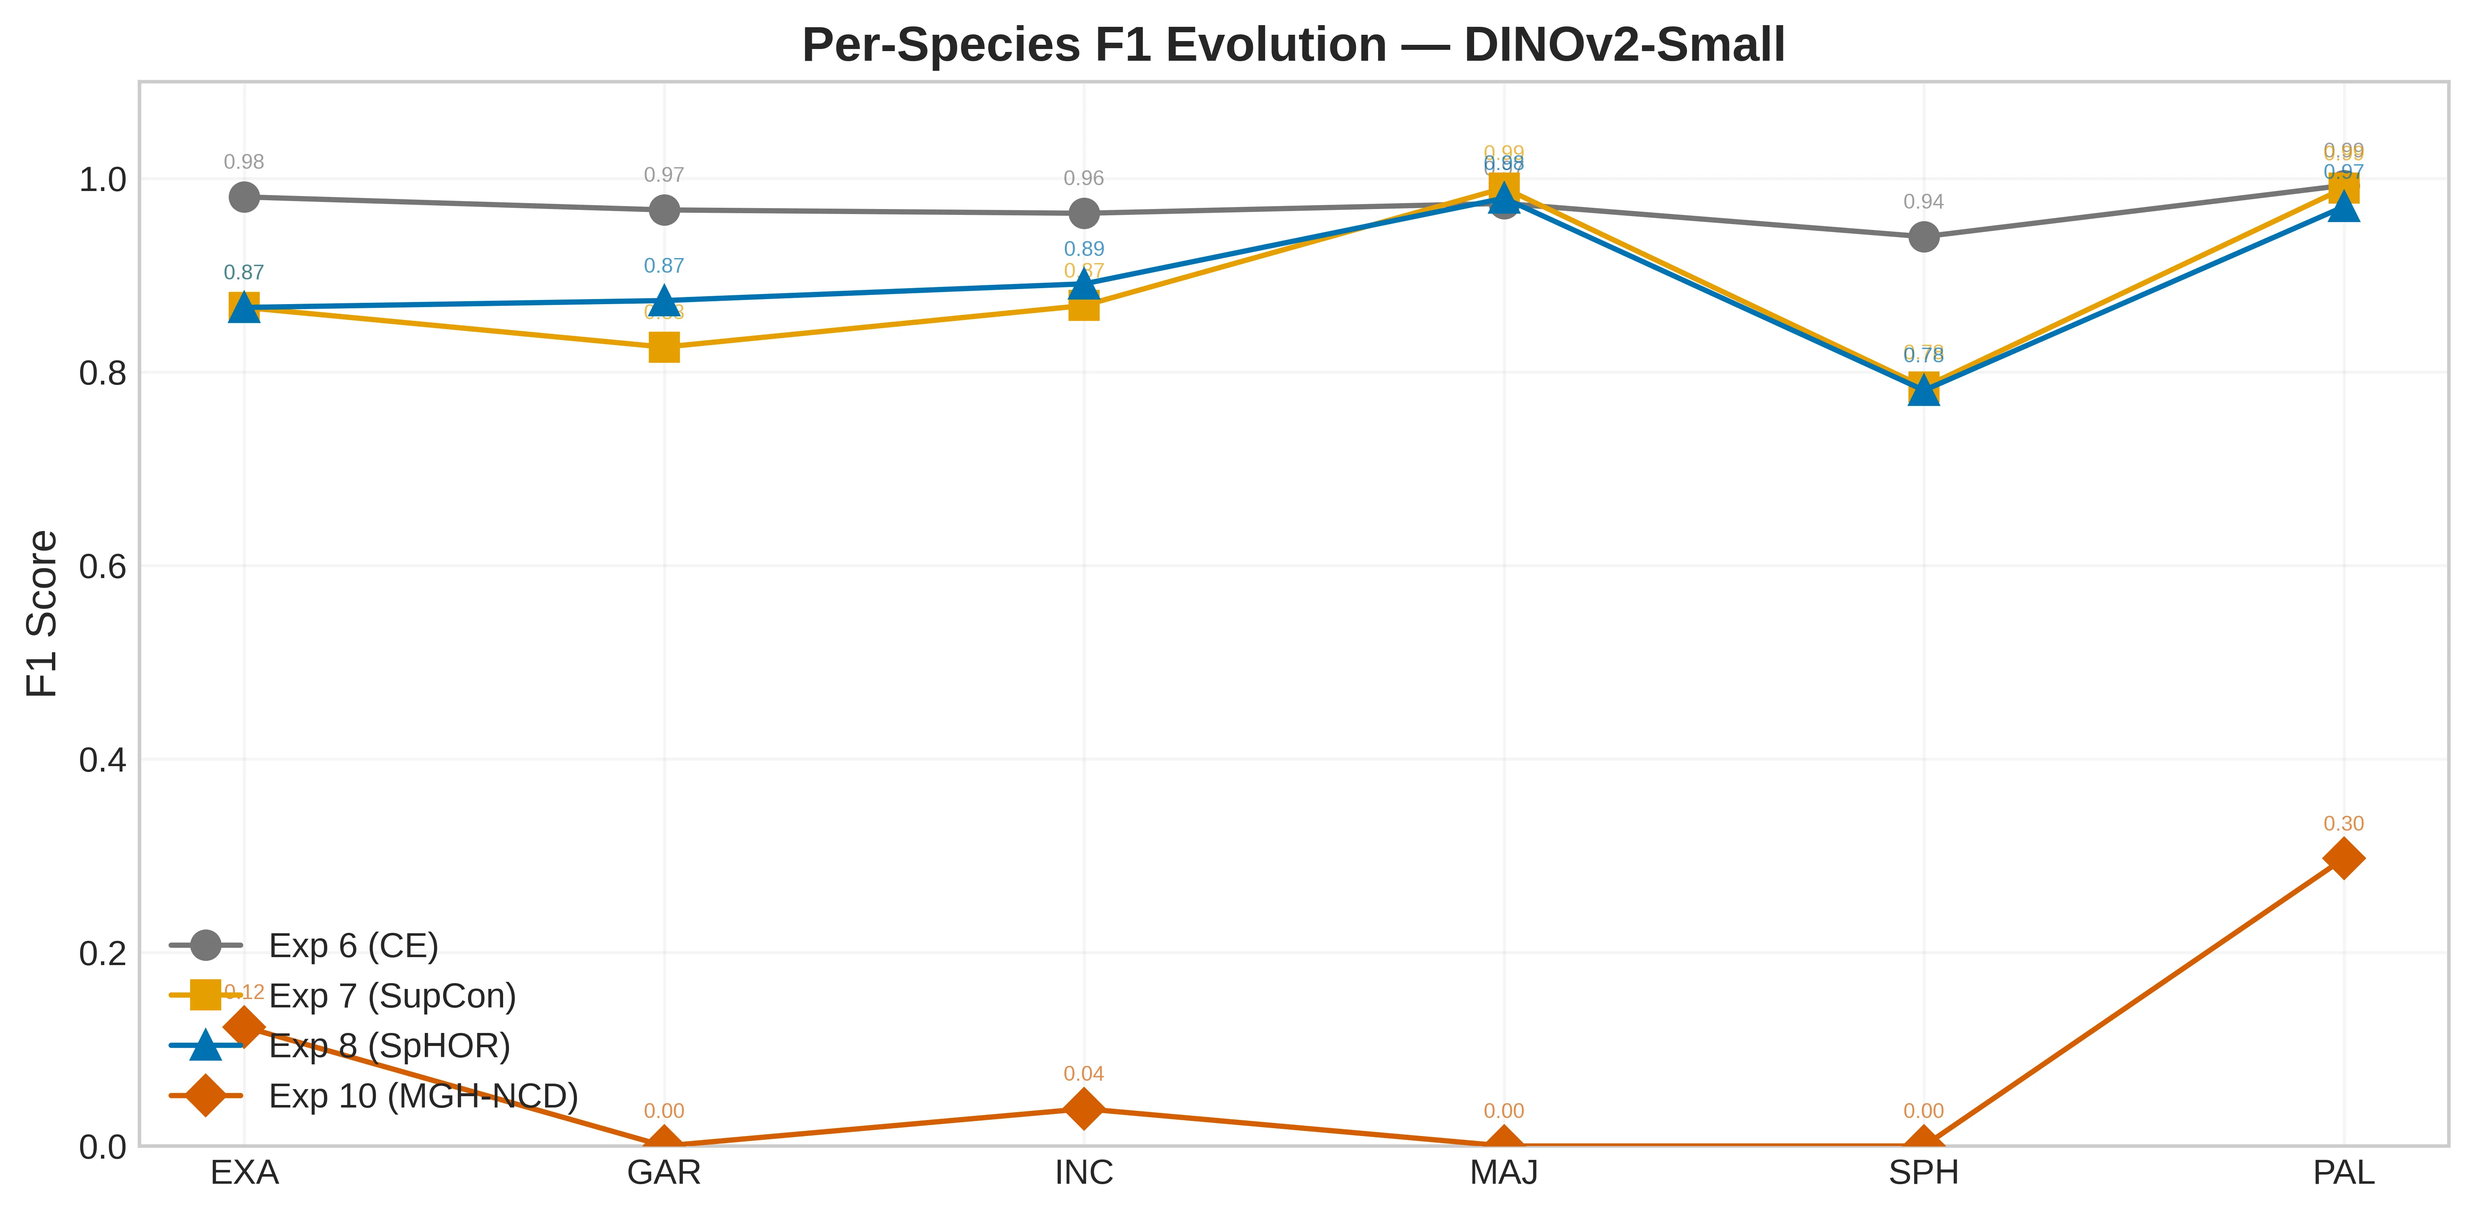
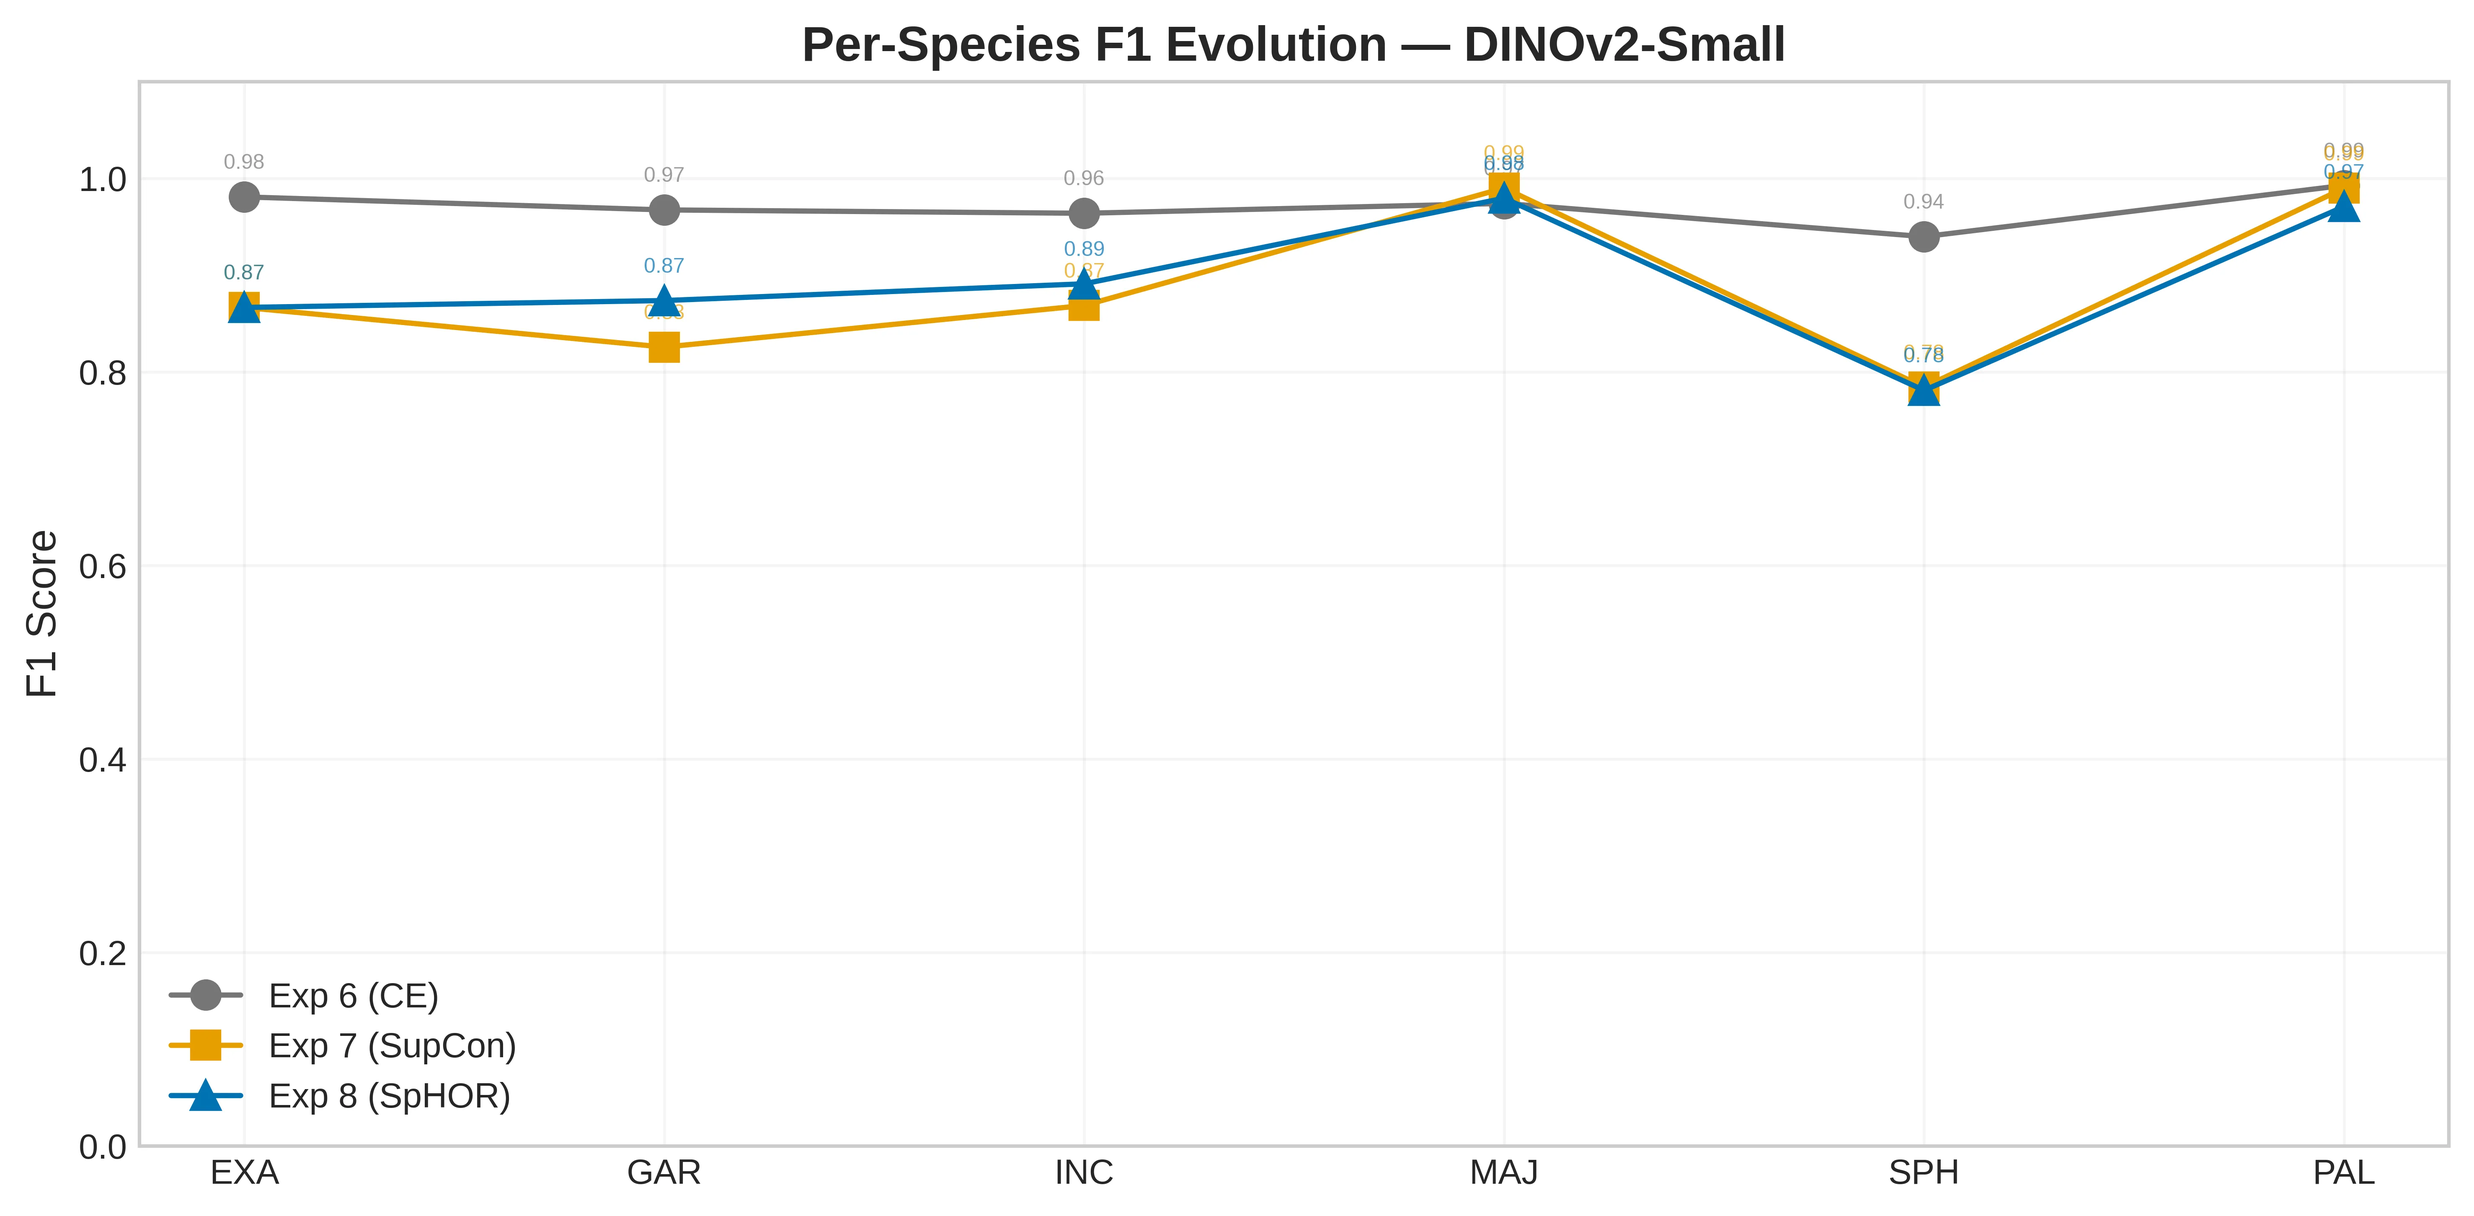
fix: rimuove funzioni morti exp10 dallo script figure, ripristina benchmark_bar
- rimosse fig_osr_detection_comparison, fig_exp10_per_species,
  fig_clustering_comparison, fig_spotlight_exp10_collapse (non chiamate
  dal main, dead code con riferimenti exp10)
- ripristinate fig_benchmark_bar, fig_exp8_per_species e
  fig_tsne_exp8_multimodel (rimosse per errore durante la pulizia)
- verifica: tutte le funzioni referenziate dal main sono definite,
  script genera 15 figure senza errori
- spotlight_species_evolution.webp rigenerata dalla png aggiornata

diff --git a/backend/scripts/generate_thesis_figures.py b/backend/scripts/generate_thesis_figures.py
@@ -253,8 +253,29 @@ def fig_benchmark_heatmap():
 
 
 # ══════════════════════════════════════════════════════════════════════
-#  FIGURE 2: Confusion Matrices (Exp 7, 8, 10 — exp6 has no test CM)
+#  FIGURE 2: Confusion Matrices (Exp 7, 8 — exp6 has no test CM)
 # ══════════════════════════════════════════════════════════════════════
+
+
+def fig_benchmark_bar():
+    """Grouped bar chart: all models × all experiments."""
+    fig, ax = plt.subplots(figsize=(12, 5))
+    width = 0.8 / len(MODELS)
+    x = np.arange(len(EXPS_ALL))
+
+    for i, model in enumerate(MODELS):
+        vals = [get_test_f1(load_results(exp, model)) for exp in EXPS_ALL]
+        off = (i - len(MODELS) / 2 + 0.5) * width
+        ax.bar(x + off, vals, width, label=short_model(model), color=MODEL_COLORS.get(model, CB[i]))
+
+    ax.set_xticks(x)
+    ax.set_xticklabels([EXP_LABELS[e] for e in EXPS_ALL])
+    ax.set_ylabel("Test F1 Score")
+    ax.set_title("Benchmark: All Models × All Experiments", fontweight="bold")
+    ax.legend(loc="upper left", bbox_to_anchor=(1.01, 1), framealpha=0.9, fontsize=10)
+    ax.set_ylim(0, 1.05)
+    fig.tight_layout()
+    _save(fig, "benchmark_bar.png")
 
 
 def fig_confusion_matrices():
@@ -601,51 +622,8 @@ def fig_exp9_osr_auroc():
 
 
 # ══════════════════════════════════════════════════════════════════════
-#  FIGURE 9: OSR Detection Rate — Exp 8 vs Exp 10 side-by-side
+#  EXP 8 per-species + t-SNE
 # ══════════════════════════════════════════════════════════════════════
-
-
-def fig_osr_detection_comparison():
-    """Detection rate: Exp 9 (novel garganica) vs Exp 10, all detectors, all models."""
-    detectors = ["Mahalanobis", "KNN", "Energy", "Ensemble"]
-    fig, axes = plt.subplots(1, 2, figsize=(14, 4.5))
-    x = np.arange(len(MODELS))
-    width = 0.8 / len(detectors)
-
-    for idx, exp in enumerate(["exp9", "exp10"]):
-        ax = axes[idx]
-        for j, det in enumerate(detectors):
-            vals = []
-            for model in MODELS:
-                p = EXPERIMENTS / f"{EXP_PREFIXES[exp]}_{model}" / "ncd_results.json"
-                v = 0
-                if p.exists():
-                    with open(p) as f:
-                        d = json.load(f)
-                    dets = d.get("detectors", {})
-                    dd = dets.get(det, {})
-                    v = dd.get("detection_rate_at_10pct_fpr", 0) if isinstance(dd, dict) else 0
-                vals.append(v)
-            off = (j - len(detectors) / 2 + 0.5) * width
-            ax.bar(x + off, vals, width, label=det, color=plt.cm.Set2(j / len(detectors)))
-        ax.set_xticks(x)
-        ax.set_xticklabels([short_model(m) for m in MODELS], rotation=30, ha="right")
-        ax.set_ylabel("Detection Rate @ 10% FPR")
-        ax.set_title(EXP_LABELS[exp], fontweight="bold")
-        ax.axhline(y=0.5, color="gray", linestyle="--", alpha=0.5)
-        ax.set_ylim(0, 1.05)
-        ax.legend(loc="upper left", bbox_to_anchor=(1.01, 1), framealpha=0.9, fontsize=8)
-        ax.text(-0.15, -0.1, f"({chr(97 + idx)})", transform=ax.transAxes, fontsize=11, fontweight="bold")
-
-    fig.suptitle("Known-Class Recognition Rate: Exp 9 (novel garganica) vs Exp 10", fontweight="bold", y=1.05)
-    fig.tight_layout()
-    _save(fig, "osr_detection_comparison.png")
-
-
-# ══════════════════════════════════════════════════════════════════════
-#  FIGURE 10: Exp 8 per-species F1 — all models
-# ══════════════════════════════════════════════════════════════════════
-
 
 def fig_exp8_per_species():
     """Per-species F1, all models, Exp 8."""
@@ -682,51 +660,6 @@ def fig_exp8_per_species():
     _save(fig, "exp8_per_species.png")
 
 
-# ══════════════════════════════════════════════════════════════════════
-#  FIGURE 11: Exp 10 per-species F1 — all models
-# ══════════════════════════════════════════════════════════════════════
-
-
-def fig_exp10_per_species():
-    """Per-species F1, all models, Exp 10."""
-    order = ["O. exaltata", "O. garganica", "O. incubacea", "O. majellensis", "O. sphegodes", "O. sphegodes_Palena"]
-    short = [short_species(s) for s in order]
-    fig, ax = plt.subplots(figsize=(10, 5))
-    width = 0.8 / len(MODELS)
-    x = np.arange(len(order))
-
-    for i, model in enumerate(MODELS):
-        res = load_results("exp10", model)
-        f1pc = res["test_metrics"].get("f1_per_class", {}) if res and "test_metrics" in res else {}
-        vals = [f1pc.get(s, 0) for s in order]
-        off = (i - len(MODELS) / 2 + 0.5) * width
-        bars = ax.bar(x + off, vals, width, label=short_model(model), color=MODEL_COLORS.get(model, CB[i]))
-        for bar, v in zip(bars, vals):
-            ax.text(
-                bar.get_x() + bar.get_width() / 2,
-                bar.get_height() + 0.01,
-                f"{v:.2f}",
-                ha="center",
-                va="bottom",
-                fontsize=6,
-                rotation=90,
-            )
-
-    ax.set_xticks(x)
-    ax.set_xticklabels(short)
-    ax.set_ylabel("F1 Score")
-    ax.set_title("Exp 10 (MGH-NCD): Per-Species F1 by Architecture", fontweight="bold")
-    ax.legend(loc="upper left", bbox_to_anchor=(1.01, 1), framealpha=0.9, fontsize=8)
-    ax.set_ylim(0, 1.1)
-    fig.tight_layout()
-    _save(fig, "exp10_per_species.png")
-
-
-# ══════════════════════════════════════════════════════════════════════
-#  FIGURE 12: Exp 8 t-SNE — multiple architectures
-# ══════════════════════════════════════════════════════════════════════
-
-
 def fig_tsne_exp8_multimodel():
     """t-SNE for 3 architectures in Exp 8."""
     sel = [("resnet50", "ResNet-50"), ("dinov2_small", "DINOv2-Small"), ("convnext_tiny", "ConvNeXt-Tiny")]
@@ -761,80 +694,7 @@ def fig_tsne_exp8_multimodel():
 
 
 # ══════════════════════════════════════════════════════════════════════
-#  FIGURE 13: Benchmark bar chart (legend outside)
-# ══════════════════════════════════════════════════════════════════════
-
-
-def fig_benchmark_bar():
-    """Grouped bar chart: all models × all experiments."""
-    fig, ax = plt.subplots(figsize=(12, 5))
-    width = 0.8 / len(MODELS)
-    x = np.arange(len(EXPS_ALL))
-
-    for i, model in enumerate(MODELS):
-        vals = [get_test_f1(load_results(exp, model)) for exp in EXPS_ALL]
-        off = (i - len(MODELS) / 2 + 0.5) * width
-        ax.bar(x + off, vals, width, label=short_model(model), color=MODEL_COLORS.get(model, CB[i]))
-
-    ax.set_xticks(x)
-    ax.set_xticklabels([EXP_LABELS[e] for e in EXPS_ALL])
-    ax.set_ylabel("Test F1 Score")
-    ax.set_title("Benchmark: All Models × All Experiments", fontweight="bold")
-    ax.legend(loc="upper left", bbox_to_anchor=(1.01, 1), framealpha=0.9, fontsize=10)
-    ax.set_ylim(0, 1.05)
-    fig.tight_layout()
-    _save(fig, "benchmark_bar.png")
-
-
-# ══════════════════════════════════════════════════════════════════════
-#  FIGURE 14: Clustering comparison (SpHOR vs MGH-NCD)
-# ══════════════════════════════════════════════════════════════════════
-
-
-def fig_clustering_comparison():
-    """Clustering metrics: SpHOR vs MGH-NCD for DINOv2-Base."""
-    fig, ax = plt.subplots(figsize=(8, 4.5))
-    metrics = ["acc", "nmi", "ari", "ami"]
-    metric_labels = ["ACC", "NMI", "ARI", "AMI"]
-    exps = [("exp8", "SpHOR"), ("exp10", "MGH-NCD")]
-    model = "dinov2_base"
-    x = np.arange(len(metrics))
-    width = 0.35
-
-    for j, (exp, label) in enumerate(exps):
-        p = EXPERIMENTS / f"{EXP_PREFIXES[exp]}_{model}" / "ncd_results.json"
-        vals = [0] * len(metrics)
-        if p.exists():
-            with open(p) as f:
-                d = json.load(f)
-            cl = d.get("clustering", {})
-            best = cl.get("kmeans_best", {})
-            for i, m in enumerate(metrics):
-                vals[i] = best.get(m, 0)
-        off = (j - 0.5) * width
-        bars = ax.bar(x + off, vals, width, label=label, color=CB[j * 3 % len(CB)])
-        for bar, v in zip(bars, vals):
-            ax.text(
-                bar.get_x() + bar.get_width() / 2,
-                bar.get_height() + 0.01,
-                f"{v:.3f}",
-                ha="center",
-                va="bottom",
-                fontsize=9,
-            )
-
-    ax.set_xticks(x)
-    ax.set_xticklabels(metric_labels)
-    ax.set_ylabel("Score")
-    ax.set_title("Clustering Performance — DINOv2-Base", fontweight="bold")
-    ax.legend()
-    ax.set_ylim(0, 1.05)
-    fig.tight_layout()
-    _save(fig, "clustering_comparison.png")
-
-
-# ══════════════════════════════════════════════════════════════════════
-#  FIGURE 15: Summary dual heatmap
+#  FIGURE 9: OSR Detection Rate — Exp 8 vs Exp 10 side-by-side
 # ══════════════════════════════════════════════════════════════════════
 
 
@@ -977,99 +837,6 @@ def fig_spotlight_convnext_osr():
 
 # ══════════════════════════════════════════════════════════════════════
 #  SPOTLIGHT 18: Exp 10 collapse to sphegodes_Palena
-# ══════════════════════════════════════════════════════════════════════
-
-
-def fig_spotlight_exp10_collapse():
-    """Focused figure: Exp 10 causes most species to be classified as Palena.
-    Shows per-species accuracy breakdown highlighting the collapse."""
-    model = "dinov2_base"
-    res = load_results("exp10", model)
-    cm = np.array(res["test_metrics"]["confusion_matrix"])
-    labels_raw = res["test_metrics"].get(
-        "confusion_matrix_labels", list(res.get("class_names", [f"C{i}" for i in range(len(cm))]))
-    )
-    short = [short_species(label) for label in labels_raw]
-    n = len(cm)
-
-    # Per-class accuracy (correct / total)
-    row_sums = cm.sum(axis=1, keepdims=True)
-    accuracy = cm.diagonal() / row_sums.flatten() if row_sums.min() > 0 else np.zeros(n)
-
-    # How many samples of each class went to Palena (last column)
-    palena_col = cm[:, -1]
-    palena_frac = palena_col / row_sums.flatten() if row_sums.min() > 0 else np.zeros(n)
-
-    fig, axes = plt.subplots(1, 2, figsize=(12, 4.5))
-
-    # Panel (a): confusion matrix heatmap
-    ax = axes[0]
-    ax.imshow(cm, cmap="Reds", interpolation="nearest", vmin=0, vmax=50)
-    ax.set_xticks(range(n))
-    ax.set_yticks(range(n))
-    ax.set_xticklabels(short, fontsize=8, rotation=45, ha="right")
-    ax.set_yticklabels(short, fontsize=8)
-    ax.set_xlabel("Predicted")
-    ax.set_ylabel("Actual")
-
-    for i in range(n):
-        for j in range(n):
-            v = cm[i, j]
-            c = "white" if v > 25 else "black"
-            fw = "bold" if j == n - 1 else "normal"
-            ax.text(j, i, str(v), ha="center", va="center", fontsize=9, color=c, fontweight=fw)
-
-    # Highlight the Palena column
-    for i in range(n):
-        rect = plt.Rectangle((n - 1 - 0.5, i - 0.5), 1, 1, fill=False, edgecolor="#D55E00", linewidth=3, linestyle="--")
-        ax.add_patch(rect)
-
-    ax.set_title("(a) Confusion Matrix — Collapse to Palena", fontweight="bold", fontsize=11)
-    ax.text(-0.15, -0.1, "(a)", transform=ax.transAxes, fontsize=11, fontweight="bold")
-
-    # Panel (b): accuracy + palena fraction
-    ax = axes[1]
-    x = np.arange(n)
-    width = 0.35
-    bars1 = ax.bar(x - width / 2, accuracy, width, label="Correct class", color="#0072B2")
-    bars2 = ax.bar(x + width / 2, palena_frac, width, label="Classified as Palena", color="#D55E00")
-
-    for bar, v in zip(bars1, accuracy):
-        ax.text(
-            bar.get_x() + bar.get_width() / 2,
-            bar.get_height() + 0.02,
-            f"{v:.0%}",
-            ha="center",
-            va="bottom",
-            fontsize=8,
-            fontweight="bold",
-        )
-    for bar, v in zip(bars2, palena_frac):
-        ax.text(
-            bar.get_x() + bar.get_width() / 2,
-            bar.get_height() + 0.02,
-            f"{v:.0%}",
-            ha="center",
-            va="bottom",
-            fontsize=8,
-            color="#D55E00",
-        )
-
-    ax.set_xticks(x)
-    ax.set_xticklabels(short)
-    ax.set_ylabel("Fraction")
-    ax.set_title("(b) Correct vs Classified-as-Palena", fontweight="bold", fontsize=11)
-    ax.legend(loc="upper right", framealpha=0.9)
-    ax.set_ylim(0, 1.1)
-    ax.text(-0.15, -0.1, "(b)", transform=ax.transAxes, fontsize=11, fontweight="bold")
-
-    fig.suptitle("Exp 10 (MGH-NCD): DINOv2-Base Collapse", fontweight="bold", y=1.05)
-    fig.tight_layout()
-    _save(fig, "spotlight_exp10_collapse.png")
-
-
-# ══════════════════════════════════════════════════════════════════════
-#  SPOTLIGHT 19: Per-species F1 evolution across experiments
 # ══════════════════════════════════════════════════════════════════════
 
 
